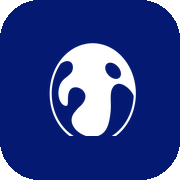
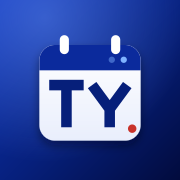
v95: 새 앱 아이콘(TY 캘린더 모노그램)
Claude-Session: https://claude.ai/code/session_01B6LfKixTozT8dKsTH7RWeY

diff --git a/index.html b/index.html
@@ -9,8 +9,8 @@
 <script>try{var d=document.documentElement,__t=localStorage.getItem("theme2")||"light",__k=localStorage.getItem("skin")||"";d.setAttribute("data-theme",__t);if(__k&&__k!=="light"&&__k!=="dark")d.setAttribute("data-skin",__k);d.setAttribute("data-layout",localStorage.getItem("layout")||"focus")}catch(e){document.documentElement.setAttribute("data-theme","light");document.documentElement.setAttribute("data-layout","focus")}</script>
 <meta name="theme-color" content="#ffffff">
 <link rel="manifest" href="manifest.json">
-<link rel="icon" type="image/png" href="icons/icon-192.png">
-<link rel="apple-touch-icon" sizes="180x180" href="icons/apple-touch-icon.png">
+<link rel="icon" type="image/png" href="icons/icon-192.png?v=2">
+<link rel="apple-touch-icon" sizes="180x180" href="icons/apple-touch-icon.png?v=2">
 <title>TY-Scheduler</title>
 <style>
 :root{
@@ -3604,7 +3604,7 @@ paintView();
 $('shBtn').onclick=()=>{closeFind();renderShare();loadShares();$('shSheet').classList.add('open');};
 
 /* ── Supabase 백엔드 ── */
-const APPVER=/*ver*/'v94';
+const APPVER=/*ver*/'v95';
 (function(){const e=$('verTxt');if(e)e.textContent=APPVER;})();
 /* GitHub 에 올라온 파일을 직접 읽어 새 버전이 있는지 확인한다 */
 let updSeen=null;
